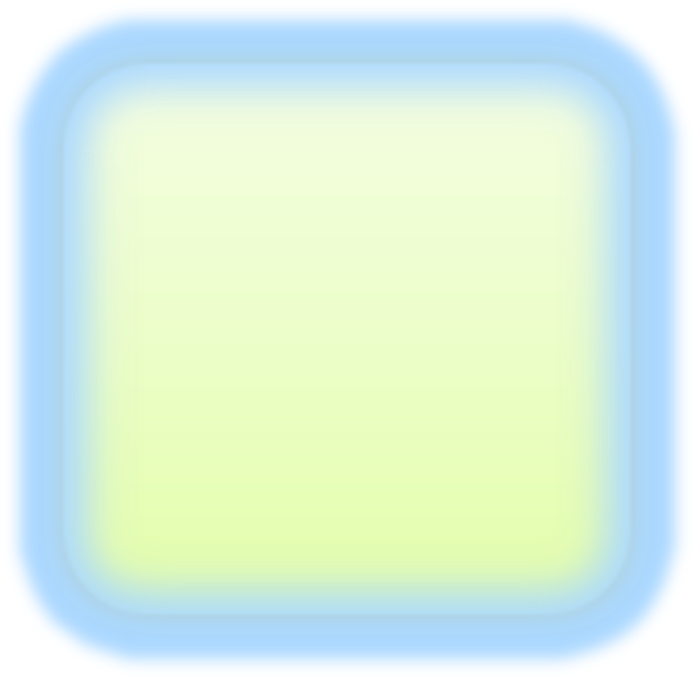
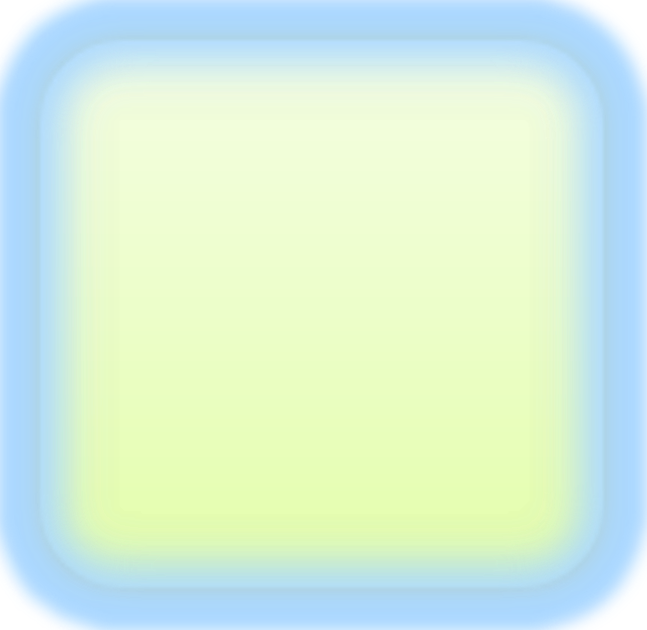
made a selection animation in the store

Changed region(s): [[0.0, 0.0, 1.0, 1.0], [0.0927, 0.6635, 0.8964, 0.9048], [0.0927, 0.0905, 0.8964, 0.2413]]

diff --git a/store.js b/store.js
@@ -15,7 +15,13 @@ class StoreBird {
         
         push();
         imageMode(CENTER);
-        image(levelBackground, this.x, this.y, this.w, this.h);
+        if (this.bird === birdImgID){
+            image(levelBackgroundGlow, this.x, this.y, this.w + this.w /5, this.h+ this.h /5);
+        }
+        else{
+
+            image(levelBackground, this.x, this.y, this.w, this.h);
+        }
         image(birdImgList[this.bird], this.x , this.y , this.w/1.5, this.h/1.5);
         pop();
         
@@ -23,7 +29,7 @@ class StoreBird {
         
         if (collidePointRect(mouseX,mouseY,this.x - this.w/2, this.y - this.h/2, this.w, this.h)){
             birdImg = birdImgList[this.bird];
-            image(levelBackgroundGlow, this.x, this.y, this.w, this.h);
+            birdImgID = this.bird;
             clickSound.play();
         }
     }

diff --git a/sketch.js b/sketch.js
@@ -39,6 +39,7 @@ function setup() {
 
 volumeSlider.position(width / 2, -height / 2);
 volumeSlider2.position(width / 2, -height / 2);
+birdImgID = 0;
 
 }
 
@@ -56,6 +57,7 @@ function draw() {
 
 
   if (state === "menu") {
+    levelWait = 0;
     
     background(bkgImg);
     if (!settings){
@@ -128,6 +130,7 @@ function draw() {
 
     background(bkgImg);
     levelWait++;
+    
     galss3Wait = 0;
 
 
@@ -681,6 +684,7 @@ function showSettings(){
     clickSound.play();
     settings = false;
     volumeSlider.position(width / 2, -height / 2);
+    volumeSlider2.position(width / 2, -height / 2);
 
   }
 

diff --git a/levels.js b/levels.js
@@ -21,13 +21,14 @@ class Levels {
         text(this.level, this.x+ width/55, this.y+ width/15.4);
         pop();
         if (levelClicked) {
-        
+        if (levelWait >30){
         if (collidePointRect(mouseX,mouseY,this.x, this.y, this.w, this.h)){
             state = "game";
             stateLevel = "level"+this.level;
             currentLevel = this.level;
             clickSound.play();
         }
+    }
     }
     }
 

diff --git a/variables.js b/variables.js
@@ -38,5 +38,5 @@ let counter;
 let currentLevel = 0;
 let pause = false;
 let backgroundMusic, clickSound,glassSound, pigDieSound, metalSound;
-let birdImg1,birdImg2,birdImg3,birdImg4,birdImgList;
+let birdImg1,birdImg2,birdImg3,birdImg4,birdImgList,birdImgID;
 let volumeSlider,volumeSlider2;
